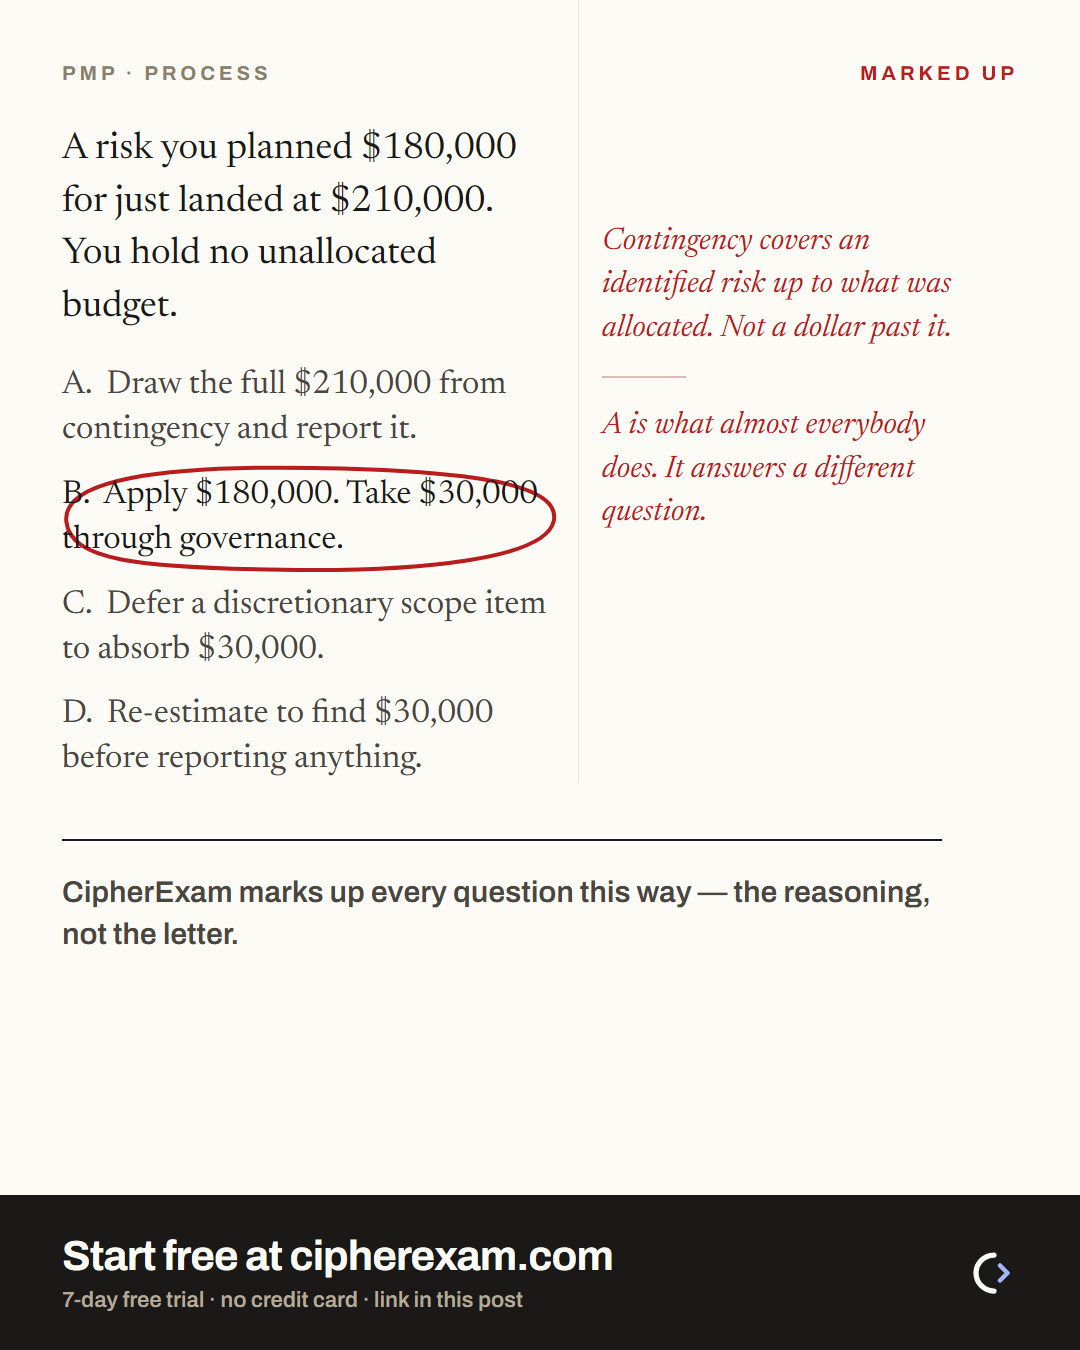
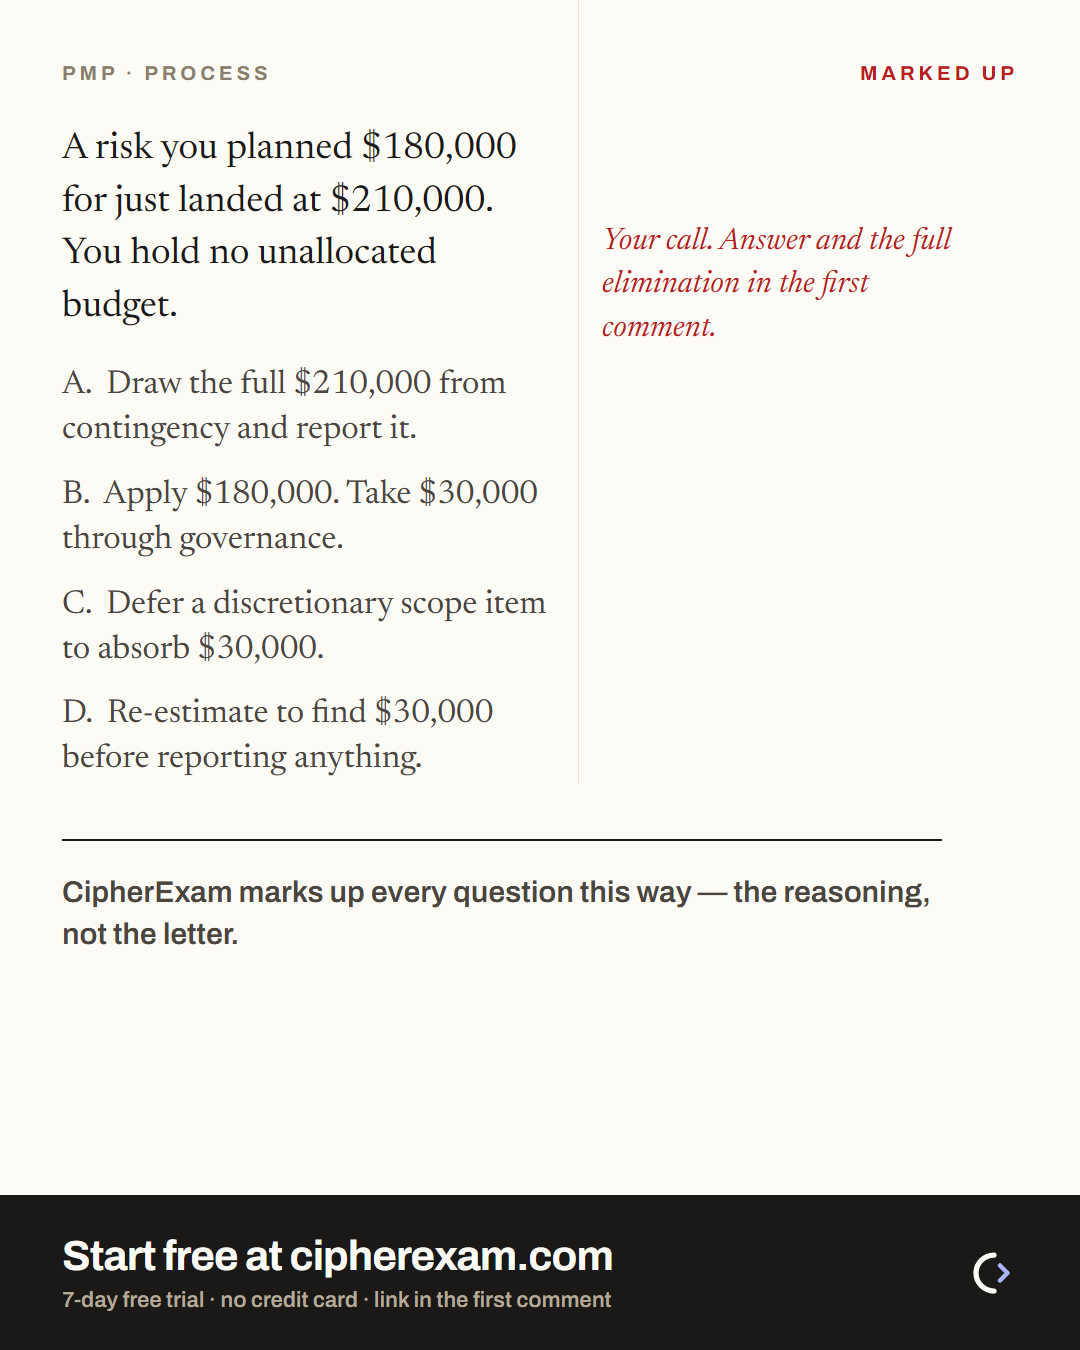
fix(cards): never show the answer on a gated post (v1.30.2)
The answerSheet card filled in the correct bubble and printed the 'Why C'
block on posts whose copy says the answer comes in the first comment.
Dave caught it about to go out on frame-test-02: the card handed over
the thing the post was gating, which kills the reason to comment and
makes the copy read as a lie.

card.gated now hides the filled bubble, the red circle, the why and the
margin notes, and prints 'Answer and the full elimination in the first
comment' instead. The answer stays in the data for the reveal card. Set
automatically for any post whose copy mentions the first comment — 8 of
10 drafts.

Gated posts also get the right CTA sub-line: the URL lives in the first
comment on those, so 'link in this post' sent readers hunting through a
body with no link in it.

diff --git a/videos/src/components/PostCard.tsx b/videos/src/components/PostCard.tsx
@@ -202,9 +202,26 @@ const Bubble: React.FC<{ filled: boolean }> = ({ filled }) => (
   />
 );
 
+/**
+ * A gated post promises the answer in the first comment. The card must not
+ * give it away — filling the right bubble kills the reason to comment and
+ * makes the copy read as a lie. `gated: true` keeps correctIndex/why in the
+ * data for the reveal card, and hides them here.
+ */
+const GatedNote: React.FC<{ font: string; color: string; accent: string }> = ({ font, color, accent }) => (
+  <div style={{ borderLeft: "5px solid " + accent, paddingLeft: 30, display: "flex", flexDirection: "column", gap: 12 }}>
+    <div style={{ fontFamily: font, fontSize: 19, letterSpacing: "0.16em", textTransform: "uppercase", color: accent }}>
+      Your call
+    </div>
+    <div style={{ fontSize: 36, lineHeight: 1.4, maxWidth: 830, color }}>
+      Answer and the full elimination in the first comment.
+    </div>
+  </div>
+);
+
 const AnswerSheet: React.FC<PostCardProps> = (p) => {
   const options: CardOption[] = p.options ?? [];
-  const correct = p.correctIndex ?? -1;
+  const correct = p.gated ? -1 : p.correctIndex ?? -1;
   return (
     <div
       style={{
@@ -273,7 +290,9 @@ const AnswerSheet: React.FC<PostCardProps> = (p) => {
           ))}
         </div>
 
-        {p.why ? (
+        {p.gated ? (
+          <GatedNote font="'IBM Plex Mono', monospace" color="#14161a" accent={INDIGO} />
+        ) : p.why ? (
           <div style={{ borderLeft: "5px solid " + INDIGO, paddingLeft: 30, display: "flex", flexDirection: "column", gap: 12 }}>
             <div
               style={{
@@ -394,7 +413,10 @@ const CIRCLE =
 
 const MarkedUp: React.FC<PostCardProps> = (p) => {
   const options: CardOption[] = p.options ?? [];
-  const correct = p.correctIndex ?? -1;
+  // Gated: no red circle, no margin notes — the pen marks would hand over the
+  // answer the post is holding back. See GatedNote above.
+  const correct = p.gated ? -1 : p.correctIndex ?? -1;
+  const notes = p.gated ? ["Your call. Answer and the full elimination in the first comment."] : p.marginNotes ?? [];
   return (
     <div
       style={{
@@ -457,7 +479,7 @@ const MarkedUp: React.FC<PostCardProps> = (p) => {
           </div>
 
           <div style={{ width: 356, display: "flex", flexDirection: "column", gap: 26, paddingTop: 96 }}>
-            {(p.marginNotes ?? []).map((note, i) => (
+            {notes.map((note, i) => (
               <React.Fragment key={i}>
                 {i > 0 ? <div style={{ height: 2, width: 84, background: "#e2b9b9" }} /> : null}
                 <div style={{ fontStyle: "italic", fontSize: 31, lineHeight: 1.4, color: "#b91c1c" }}>{note}</div>

diff --git a/site/app.html b/site/app.html
@@ -25,7 +25,7 @@ if (window.location.protocol === 'file:') {
 <link href="https://api.fontshare.com/v2/css?f[]=satoshi@400,500,700,800,900&f[]=general-sans@300,400,500,600,700&display=swap" rel="stylesheet">
 
 <link rel="stylesheet" href="assets/shared.css">
-<link rel="stylesheet" href="assets/outreach.css?v=1.30.1">
+<link rel="stylesheet" href="assets/outreach.css?v=1.30.2">
 <!--INLINE-ASSETS-->
 <style>
 /* CipherExam campaign site — shared styles */
@@ -1843,7 +1843,7 @@ function cipherHelp() {
       </details>
       <a class="nav-rollup" href="#" onclick="cipherHelp();return false;" title="Open the quick guide">Help</a>
       <button class="nav-rollup" id="fx-toggle" type="button" title="Toggle ambient visual effects">FX</button>
-      <span class="version-bar" title="Dashboard version">v1.30.1</span>
+      <span class="version-bar" title="Dashboard version">v1.30.2</span>
     </div>
   </div>
 </nav>
@@ -10095,10 +10095,10 @@ function escHtml(s) {
 })();
 </script>
 <!--HAL-RAIL-->
-<script src="assets/outreach-data.js?v=1.30.1"></script>
-<script src="assets/outreach.js?v=1.30.1"></script>
-<script src="assets/page-knowledge.js?v=1.30.1"></script>
-<script src="assets/hal-rail.js?v=1.30.1"></script>
+<script src="assets/outreach-data.js?v=1.30.2"></script>
+<script src="assets/outreach.js?v=1.30.2"></script>
+<script src="assets/page-knowledge.js?v=1.30.2"></script>
+<script src="assets/hal-rail.js?v=1.30.2"></script>
 <!--/HAL-RAIL-->
 <script src="assets/campaign-reset.js"></script>
 

diff --git a/site/launch-campaign.html b/site/launch-campaign.html
@@ -808,7 +808,7 @@ details[open] summary::before { transform: rotate(90deg); }
 
 
 <link rel="icon" type="image/svg+xml" href="assets/logo-mark.svg">
-<link rel="stylesheet" href="assets/outreach.css?v=1.30.1">
+<link rel="stylesheet" href="assets/outreach.css?v=1.30.2">
 <style>
   .rollup-section { scroll-margin-top: 80px; padding-top: 12px; }
   .rollup-section-head { margin: 0 0 24px; border-bottom: 1px solid var(--border); padding-bottom: 12px; }
@@ -4972,10 +4972,10 @@ function escHtml(s) {
 </script>
 <!--/INLINE-ASSETS-->
 <!--HAL-RAIL-->
-<script src="assets/page-knowledge.js?v=1.30.1"></script>
-<script src="assets/hal-rail.js?v=1.30.1"></script>
+<script src="assets/page-knowledge.js?v=1.30.2"></script>
+<script src="assets/hal-rail.js?v=1.30.2"></script>
 <!--/HAL-RAIL-->
-<script src="assets/outreach-data.js?v=1.30.1"></script>
-<script src="assets/outreach.js?v=1.30.1"></script>
+<script src="assets/outreach-data.js?v=1.30.2"></script>
+<script src="assets/outreach.js?v=1.30.2"></script>
 </body>
 </html>

diff --git a/videos/src/data/postCard.ts b/videos/src/data/postCard.ts
@@ -42,6 +42,14 @@ export type PostCardProps = {
   /** answerSheet + markedUp — four options and the index (0-3) that scores. */
   options?: CardOption[];
   correctIndex?: number;
+  /**
+   * True when the post promises the answer in the first comment. The card
+   * then hides the filled bubble, the red circle, the why and the margin
+   * notes — showing them would give away the thing the post is gating and
+   * make the copy read as a lie. The data is kept for the reveal card.
+   */
+  gated?: boolean;
+
   /** answerSheet — the "Why C" explanation. markedUp — the margin notes. */
   why?: string;
   marginNotes?: string[];

diff --git a/site/competitors.html b/site/competitors.html
@@ -2186,8 +2186,8 @@ function escHtml(s) {
 </script>
 <!--/INLINE-ASSETS-->
 <!--HAL-RAIL-->
-<script src="assets/page-knowledge.js?v=1.30.1"></script>
-<script src="assets/hal-rail.js?v=1.30.1"></script>
+<script src="assets/page-knowledge.js?v=1.30.2"></script>
+<script src="assets/hal-rail.js?v=1.30.2"></script>
 <!--/HAL-RAIL-->
 </body>
 </html>

diff --git a/site/content.html b/site/content.html
@@ -2578,8 +2578,8 @@ function escHtml(s) {
 </script>
 <!--/INLINE-ASSETS-->
 <!--HAL-RAIL-->
-<script src="assets/page-knowledge.js?v=1.30.1"></script>
-<script src="assets/hal-rail.js?v=1.30.1"></script>
+<script src="assets/page-knowledge.js?v=1.30.2"></script>
+<script src="assets/hal-rail.js?v=1.30.2"></script>
 <!--/HAL-RAIL-->
 </body>
 </html>

diff --git a/site/engineering.html b/site/engineering.html
@@ -2067,8 +2067,8 @@ function escHtml(s) {
 </script>
 <!--/INLINE-ASSETS-->
 <!--HAL-RAIL-->
-<script src="assets/page-knowledge.js?v=1.30.1"></script>
-<script src="assets/hal-rail.js?v=1.30.1"></script>
+<script src="assets/page-knowledge.js?v=1.30.2"></script>
+<script src="assets/hal-rail.js?v=1.30.2"></script>
 <!--/HAL-RAIL-->
 </body>
 </html>

diff --git a/site/index.html b/site/index.html
@@ -2073,8 +2073,8 @@ function escHtml(s) {
 </script>
 <!--/INLINE-ASSETS-->
 <!--HAL-RAIL-->
-<script src="assets/page-knowledge.js?v=1.30.1"></script>
-<script src="assets/hal-rail.js?v=1.30.1"></script>
+<script src="assets/page-knowledge.js?v=1.30.2"></script>
+<script src="assets/hal-rail.js?v=1.30.2"></script>
 <!--/HAL-RAIL-->
 </body>
 </html>

diff --git a/site/landing.html b/site/landing.html
@@ -2178,8 +2178,8 @@ function escHtml(s) {
 </script>
 <!--/INLINE-ASSETS-->
 <!--HAL-RAIL-->
-<script src="assets/page-knowledge.js?v=1.30.1"></script>
-<script src="assets/hal-rail.js?v=1.30.1"></script>
+<script src="assets/page-knowledge.js?v=1.30.2"></script>
+<script src="assets/hal-rail.js?v=1.30.2"></script>
 <!--/HAL-RAIL-->
 </body>
 </html>

diff --git a/site/outreach.html b/site/outreach.html
@@ -1992,8 +1992,8 @@ function escHtml(s) {
 </script>
 <!--/INLINE-ASSETS-->
 <!--HAL-RAIL-->
-<script src="assets/page-knowledge.js?v=1.30.1"></script>
-<script src="assets/hal-rail.js?v=1.30.1"></script>
+<script src="assets/page-knowledge.js?v=1.30.2"></script>
+<script src="assets/hal-rail.js?v=1.30.2"></script>
 <!--/HAL-RAIL-->
 </body>
 </html>

diff --git a/site/posts.html b/site/posts.html
@@ -2641,8 +2641,8 @@ function escHtml(s) {
 </script>
 <!--/INLINE-ASSETS-->
 <!--HAL-RAIL-->
-<script src="assets/page-knowledge.js?v=1.30.1"></script>
-<script src="assets/hal-rail.js?v=1.30.1"></script>
+<script src="assets/page-knowledge.js?v=1.30.2"></script>
+<script src="assets/hal-rail.js?v=1.30.2"></script>
 <!--/HAL-RAIL-->
 </body>
 </html>

diff --git a/site/sample-linkedin-post.html b/site/sample-linkedin-post.html
@@ -2259,8 +2259,8 @@ function escHtml(s) {
 </script>
 <!--/INLINE-ASSETS-->
 <!--HAL-RAIL-->
-<script src="assets/page-knowledge.js?v=1.30.1"></script>
-<script src="assets/hal-rail.js?v=1.30.1"></script>
+<script src="assets/page-knowledge.js?v=1.30.2"></script>
+<script src="assets/hal-rail.js?v=1.30.2"></script>
 <!--/HAL-RAIL-->
 </body>
 </html>
